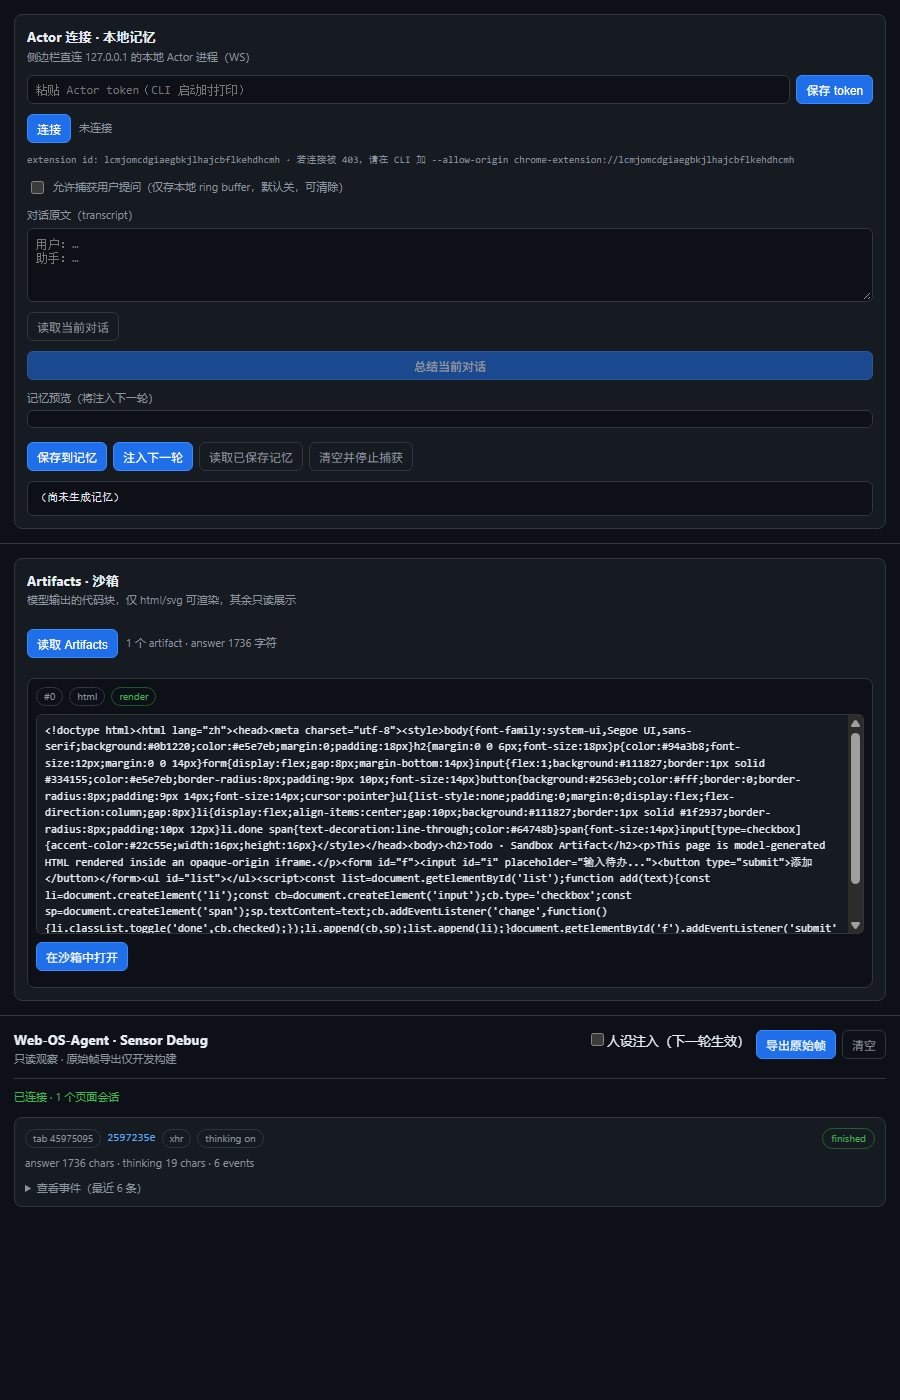
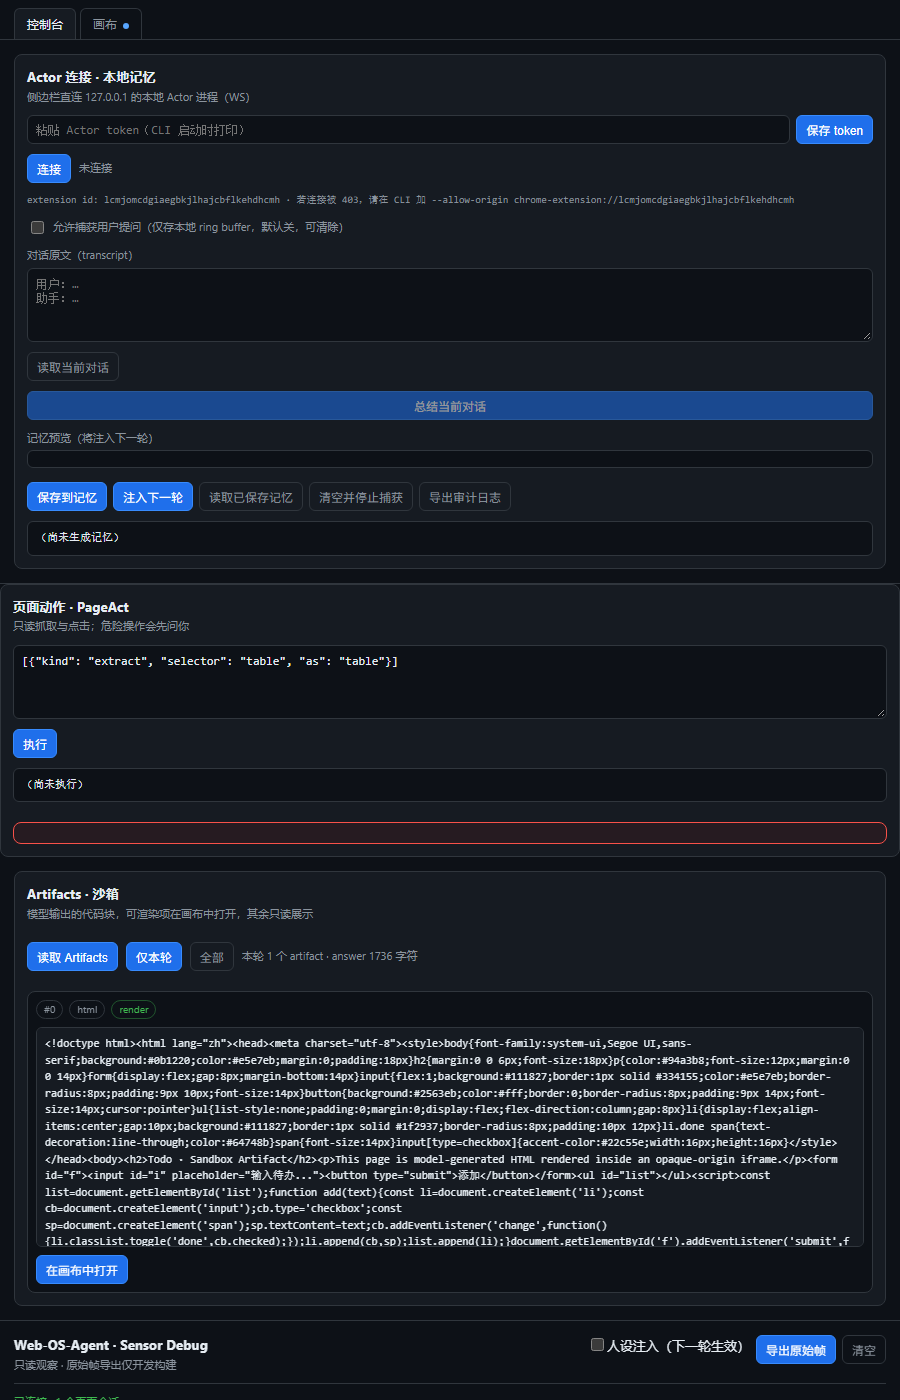
docs: rewrite README around the local-first agent runtime vision

diff --git a/README.md b/README.md
@@ -1,105 +1,166 @@
 # Web-OS-Agent
 
-> Turn AI web UIs into agent runtimes — an external middleware that **observes, understands, remembers, and acts** inside your own browser.
+> **Give every AI chat hands, memory, and a workspace — locally.**
 
-Web-OS-Agent is a four-layer, decoupled runtime that turns a plain AI chat page (DeepSeek today) into an agent surface without using any API key or touching your credentials. It watches the page's own network traffic, turns the stream into structured events, routes intent, injects persona + memory, runs allowlisted local commands, and renders model-generated code in a sandbox.
+Web-OS-Agent turns the AI chat page you already use into an agent runtime. It reads the page's own network stream (no API keys, no credentials), keeps long-term memory in a local SQLite database, acts on the current page through a declarative action DSL, and renders model-generated HTML/SVG/JSX inside an opaque-origin sandbox.
+
+No cloud. No relay. No account. The model, the memory, and the execution loop stay on your machine — while the AI you already use stays exactly where it is.
 
 <p>
-  <img alt="version" src="https://img.shields.io/badge/version-v0.1.0-green">
+  <img alt="version" src="https://img.shields.io/badge/version-v0.2.0--dev-green">
   <img alt="license" src="https://img.shields.io/badge/license-MIT-blue">
+  <img alt="tests" src="https://img.shields.io/badge/tests-430%20passing-brightgreen">
   <a href="https://github.com/BOHAOYUAN/WEB-Agent-OS/actions/workflows/verify.yml"><img alt="CI" src="https://github.com/BOHAOYUAN/WEB-Agent-OS/actions/workflows/verify.yml/badge.svg"></a>
 </p>
 
 <details>
 <summary>中文简介（点击展开）</summary>
 
-Web-OS-Agent 把 AI 网页端变成 Agent 运行时：只读地观察你自己浏览器里已经发出的请求，把流拆成结构化事件，按 requestId 配成对话，用本地 3B 模型压成结构化记忆，再把「记忆 + 人设」作为前缀注入下一轮请求；模型生成的 HTML/SVG 在 opaque-origin 沙箱里渲染，出不了网、也碰不到扩展的 token 与存储。
+Web-OS-Agent 把 AI 网页端变成 Agent 运行时：只读地观察你自己浏览器里已经发出的请求，把流拆成结构化事件，用本地模型压成结构化记忆存进 SQLite，再把「记忆 + 人设」作为前缀注入下一轮；模型生成的 HTML / SVG / JSX 在 opaque-origin 沙箱里渲染，出不了网，也碰不到扩展的 token 与存储；页面操作走声明式动作 DSL，危险动作必须经你确认。
 
 - 不用 API key，不碰账号 / Cookie / Token / PoW；
-- 四层解耦：Sensor → Router → Actor → UI；
-- 本地优先：记忆总结走 127.0.0.1:11434 的 Ollama，对话原文本不落盘。
+- 本地优先：模型、记忆、执行都在本机；
+- 四层解耦：Sensor → Router → Actor → UI，加上 PageAct 与 Artifacts 画布。
 
-定位是毕业设计 + 作品集，MIT。文档入口见 docs/。
+MIT，开源共建。
 
 </details>
 
-## Demo
-
-**5 分钟演示视频**：待录制，发布后在这里放链接；分镜与录制清单见 [docs/demo-storyboard.md](docs/demo-storyboard.md)。
-
 ---
+
+## Why this exists
+
+The browser is where work happens. Yet the most capable AI on your machine — the chat page — is read-only: it can talk, but it cannot act. Every attempt to fix that so far has meant shipping your screen, your pages, and your data to a vendor.
+
+We think that trade is wrong. The web is the largest GUI ever built, and it should be programmable by the person at the keyboard. That needs a runtime that is **local by construction**: it observes what your browser already sends, remembers locally, and executes through explicit, reviewable actions.
+
+Web-OS-Agent is that runtime. It is **not** a browser, **not** a cloud agent, and **not** an automation framework. It is a thin, auditable layer between the AI you use and the machine you own.
 
 ## What it does
 
-| Layer | Role | Status |
+| Capability | What it does | Status |
 |---|---|---|
-| **Sensor** | Read-only stream capture (XHR/fetch + SSE framing), never reads auth | ✅ |
-| **Router** | Intent rules + persona injection, with loop guard | ✅ |
-| **Actor** | Local WS bridge: allowlisted command exec + local memory (`memory-summary` via Ollama, atomic `memory.json`) | ✅ |
-| **UI / Artifacts** | Side panel: debug + memory loop + sandboxed code rendering | ✅ |
+| **Sensor** | Read-only capture of the page's own XHR/fetch, SSE framing, per-request normalization. Never reads auth. | ✅ stable |
+| **Router** | Intent rules + persona injection with a hard loop guard; failure falls back to sending the original request. | ✅ stable |
+| **Actor** | Local WebSocket bridge on `127.0.0.1`: token handshake, origin allowlist, rate limiting, audit trail, allowlisted local commands. | ✅ stable |
+| **Memory** | Capture → summarize with a local model → save to `~/.webos-agent/memory.db` (SQLite) → inject into the next turn as a merged `SystemContext`. | ✅ stable |
+| **PageAct** | Declarative action DSL (click / fill / scroll / extract / waitFor / nextPage / export). Dangerous actions require explicit confirmation; no arbitrary JS, ever. | 🟡 beta |
+| **Artifacts canvas** | Fenced code blocks become a live right-hand stage: html/svg/JSX rendered in a nested opaque-origin iframe, with interaction results flowing back into the next turn. | ✅ stable |
+| **Brain** | Browser-local inference channel (WebGPU). Model choice is measured, not assumed — see `docs/brain-ab-report.md`. | 🟡 experimental |
 
-**Memory loop** — capture → summarize → save → inject next turn, with merged `SystemContext` (memory + persona never overwrite each other), opt-in user-prompt capture, and one-click clear.
+## Design principles
 
-**Artifacts sandbox** — fenced code blocks are extracted from answers; html/svg render inside a nested, opaque-origin iframe with a network-blocking CSP. Everything else is read-only. Model output can never reach the extension's token, storage, or the network.
+1. **Local by construction.** If a feature cannot run on the user's machine, it does not belong in the core.
+2. **Never touch auth.** No cookies, no tokens, no `Authorization` headers, no PoW, no request replay.
+3. **Declarative, not arbitrary code.** The model emits a fixed vocabulary of actions; the executor performs them. There is no `eval` and no free-form script field.
+4. **Fail closed.** No confirmation UI means "refuse". Unknown action means "refuse". A batch stops at the first surprise.
+5. **Observable and auditable.** Every privileged decision — handshake, refusal, confirmation, rate limit — lands in an audit trail you can export.
+6. **Open.** MIT, no telemetry, no backend service to trust.
 
 ## Architecture
 
-```text
-DeepSeek page JS
-   │  XHR / fetch (the page's own requests)
-   ▼
-MAIN world    sensor-main     document_start · observe only, never mutate
-   │  raw chunks + allowlisted metadata
-   ▼
-ISOLATED      sensor-bridge   SSE framing → normalized events
-   │  chrome.runtime
-   ▼
-Service Worker                per-tab ring buffer / session state
-   │  port / message
-   ▼
-Side Panel                    debug · memory loop · artifacts sandbox
+```mermaid
+flowchart LR
+  P[AI chat page<br/>DeepSeek today] -->|XHR / fetch, read-only| S[Sensor]
+  S -->|normalized events| W[Service worker]
+  W -->|port| U[Side panel]
+  U -->|token handshake| A[Actor 127.0.0.1]
+  A -->|memory-summary| O[Ollama<br/>local model]
+  A <--> D[(SQLite<br/>memory.db)]
+  U -->|action DSL| PA[PageAct]
+  PA -->|DOM actions| P
+  U -->|sandboxed render| C[Artifacts canvas]
 ```
+
+The side panel is the only UI: a **console** (memory loop, PageAct console, artifacts list, sensor debug) and a **canvas** (the live artifact stage).
+
+## See it working
+
+<table>
+  <tr>
+    <td align="center"><img src="docs/captures/artifacts-list.png" width="440" alt="Artifacts list in the side panel"><br/><sub>Fenced code is detected and classified (html · render)</sub></td>
+    <td align="center"><img src="docs/captures/canvas.png" width="300" alt="Artifact rendered in the canvas"><br/><sub>Model-generated HTML running in the sandbox canvas</sub></td>
+  </tr>
+</table>
+
+> Captured with a real extension build in headless Edge against the local mock page — not a mockup.
 
 ## Quickstart
 
-**Prerequisites:** Node.js ≥ 22, Chrome/Edge ≥ 116, and a local Ollama for memory summarization.
+**Prerequisites:** Node.js ≥ 22, Chrome/Edge ≥ 116, and a local [Ollama](https://ollama.com) for memory summarization.
 
 ```bash
 npm ci
-npm run verify     # typecheck + lint + arch red-line scan + tests + build
+npm run verify     # typecheck + lint + arch red-line scan + 430 tests + build
 npm run build      # → dist/
 ```
 
 1. Open `chrome://extensions`, enable **Developer mode**, load `dist/`.
-2. Start the local Actor via `scripts/autostart.ps1` — it launches Ollama (if not already running) and the Actor CLI, reading the token and extension ID from `%LOCALAPPDATA%\WebOSAgent\` (auto-generated on first run). One-time setup and the `-DryRun` diagnostic are in [docs/autostart.md](docs/autostart.md).
-3. Open `https://chat.deepseek.com`, log in with **your own** account, open the side panel, paste the token from `%LOCALAPPDATA%\WebOSAgent\token.txt`.
-4. Send a message. Watch the panel capture the stream; ask for a ```html or ```svg block and open it in the sandbox.
+2. Start the local Actor with `scripts/autostart.ps1` — it launches Ollama (if needed) and the Actor CLI, reading the token and extension id from `%LOCALAPPDATA%\WebOSAgent\` (generated on first run). Diagnostics: `npm run verify:sqlite`, `-DryRun` in [docs/autostart.md](docs/autostart.md).
+3. Open `https://chat.deepseek.com`, sign in with **your own** account, open the side panel, paste the token from `%LOCALAPPDATA%\WebOSAgent\token.txt`.
+4. Send a message: the panel captures the stream. Ask for an ```html or ```jsx block and open the canvas.
 
-> The token is loopback-only and generated on your machine: it lives in `%LOCALAPPDATA%\WebOSAgent\token.txt`, is never written to logs, and is not committed. The extension reads no cookies, tokens, or anti-bot headers.
+> The token is loopback-only and generated on your machine. It is never logged and never committed. The extension reads no cookies, tokens, or anti-bot headers.
 
 ## Repository layout
 
 ```text
-packages/shared     single contract layer: types, SSE decode, validation (pure TS)
+packages/shared     contract layer: types, SSE decode, validation (pure TS)
 packages/sensor     MAIN-world observe hooks + ISOLATED-world bridge
-packages/router     intent rule engine + persona library + loop guard
-packages/actor      local exec bridge: hand-rolled WS + token handshake + allowlist
-packages/ui         side-panel debug + artifacts sandbox panels
-apps/extension      manifest / service worker / side-panel entry
-apps/demo           local SSE mock for offline verification
-docs/               architecture, protocol notes, threat model, roadmap
+packages/router     intent rules + persona library + loop guard
+packages/actor      local bridge: hand-rolled WS, token handshake, SQLite memory, audit
+packages/page-act   action DSL + executor + confirmation registry
+packages/ui         side panel panels: console, canvas, sandbox frame
+packages/brain      browser-local inference channel (experimental)
+apps/extension      manifest / service worker / side panel entry
+apps/demo           local SSE + PageAct fixtures for offline verification
+docs/               architecture, threat model, roadmap, runbooks
 ```
 
-## Red lines
+## Status
 
-1. **Never touch auth** — no cookies/tokens/`Authorization`, no PoW solving, no request replay.
-2. **No gray/black-hat** — single user, single browser, manual trigger.
-3. **No credential access** — the sensor is read-only; injection rewrites the request body only.
-4. **No sandbox escape** — artifacts run in an opaque-origin iframe (`allow-scripts`, never `allow-same-origin`) with `default-src 'none'`.
+- **430 unit/integration tests** (+6 opt-in real-model tests with `ACTOR_E2E=1`), typecheck, lint, arch red-line scan and build all run in CI on every push.
+- `v0.1.0` is tagged. `v0.2.0` is in progress: SQLite memory, PageAct (beta), the artifacts canvas, and a re-measured Brain plan.
+- **Honest gaps:** only the current DeepSeek page version is supported; PageAct is driven from a JSON console (no model planner yet); auto-summary, memory retrieval and site adapters are not shipped; there is no visual/screenshot-based CUA, and there will not be.
 
-## Status & roadmap
+## Roadmap
 
-Core layers (Sensor → Router → Actor → memory loop → Artifacts) are done and covered by 248 tests, plus 6 opt-in real-model tests (`ACTOR_E2E=1`): 1 live Actor CLI integration and 5 memory-quality assertions that pin the facts/plan boundary. Real-browser integration and CSP/sandbox contract tests are included. Roadmap and threat model live in `docs/roadmap.md` and `docs/threat-model.md`.
+| Horizon | Focus |
+|---|---|
+| **Now (v0.2)** | Real-DeepSeek evidence run, PageAct end-to-end proof, canvas polish |
+| **Next (v0.3)** | Auto-summary trigger (opt-in, preview-only), memory retrieval, indirect-prompt-injection hardening, first site adapters |
+| **Later** | DOM pruning for planning, multi-site coverage, a desktop bridge |
+
+## Security model
+
+- The extension itself never makes network requests — the **only** connection is the side panel → Actor WebSocket, hard-pinned to `127.0.0.1`.
+- Model output is untrusted: it renders inside `sandbox="allow-scripts"` **without** `allow-same-origin`, under a `default-src 'none'` / `connect-src 'none'` CSP. It cannot reach the extension's token, storage, or the network.
+- Page actions are declarative and validated twice (service worker + content script). Dangerous ones (download / submit / credential / destructive) need explicit user confirmation; no UI listener means refusal.
+- Full threat model, residual risks and non-goals: [docs/threat-model.md](docs/threat-model.md).
+
+## Contributing
+
+The project is built in the open and welcomes contributors.
+
+**Good first issues**
+
+- Add a **site adapter** for another AI chat (same read-only contract as `chat.deepseek.com`).
+- Add **PageAct fixtures** — pages that exercise every danger classification, so the confirmation path stays honest.
+- Improve **docs**: architecture notes, failure-mode write-ups, translations (Chinese ⟷ English).
+
+**Ground rules**
+
+1. Do not add network calls to the extension, a cloud relay, or credential access. Those are hard red lines.
+2. No arbitrary JS execution in the action path. Extend the DSL and write a test instead.
+3. Every PR must pass `npm run verify`. Behaviour changes need a test that would have caught the old behaviour.
+
+```bash
+npm ci
+npm run verify      # the only gate
+npm run demo        # local SSE + PageAct fixtures on :4318
+```
+
+We are at the beginning. If the idea of a local, auditable agent runtime for the web resonates with you, the fastest way to help is to use it on a page you care about and file what broke.
 
 ## License
 
